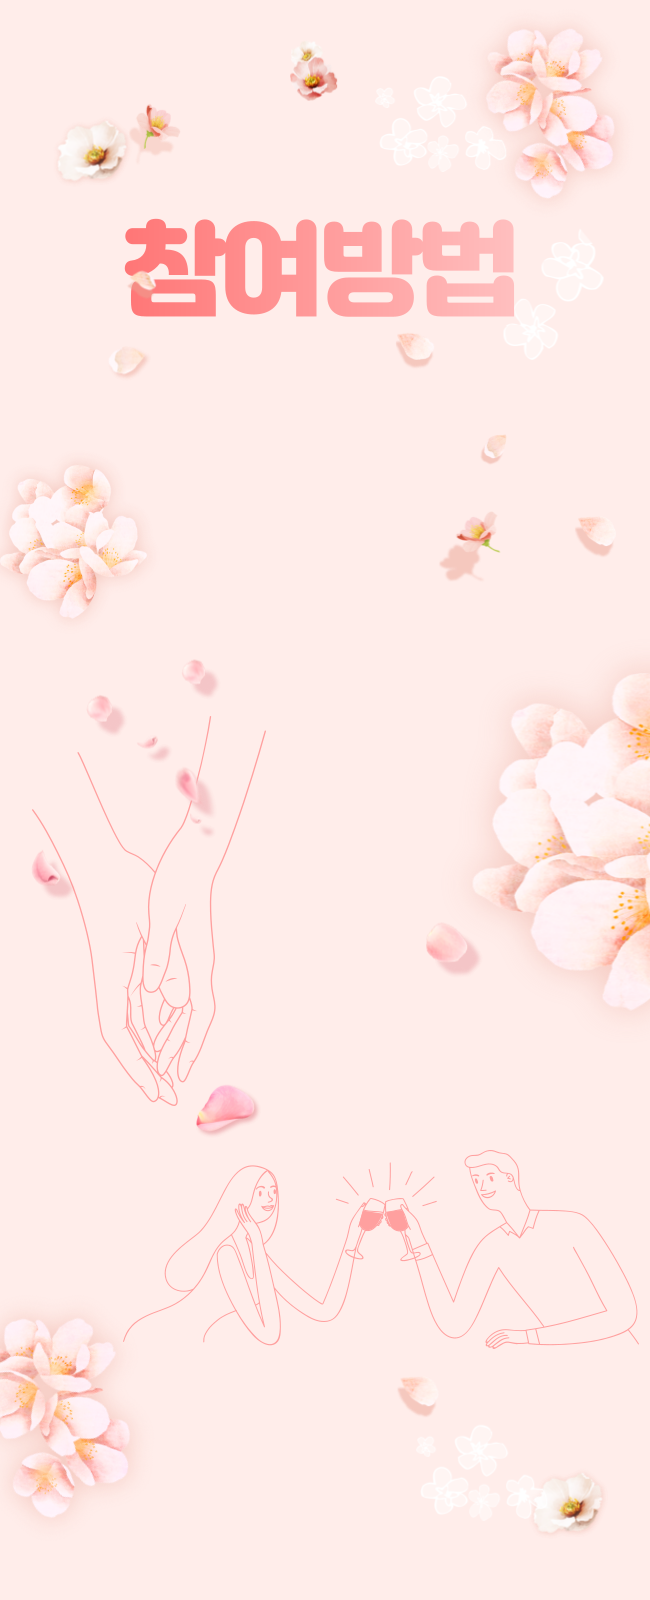
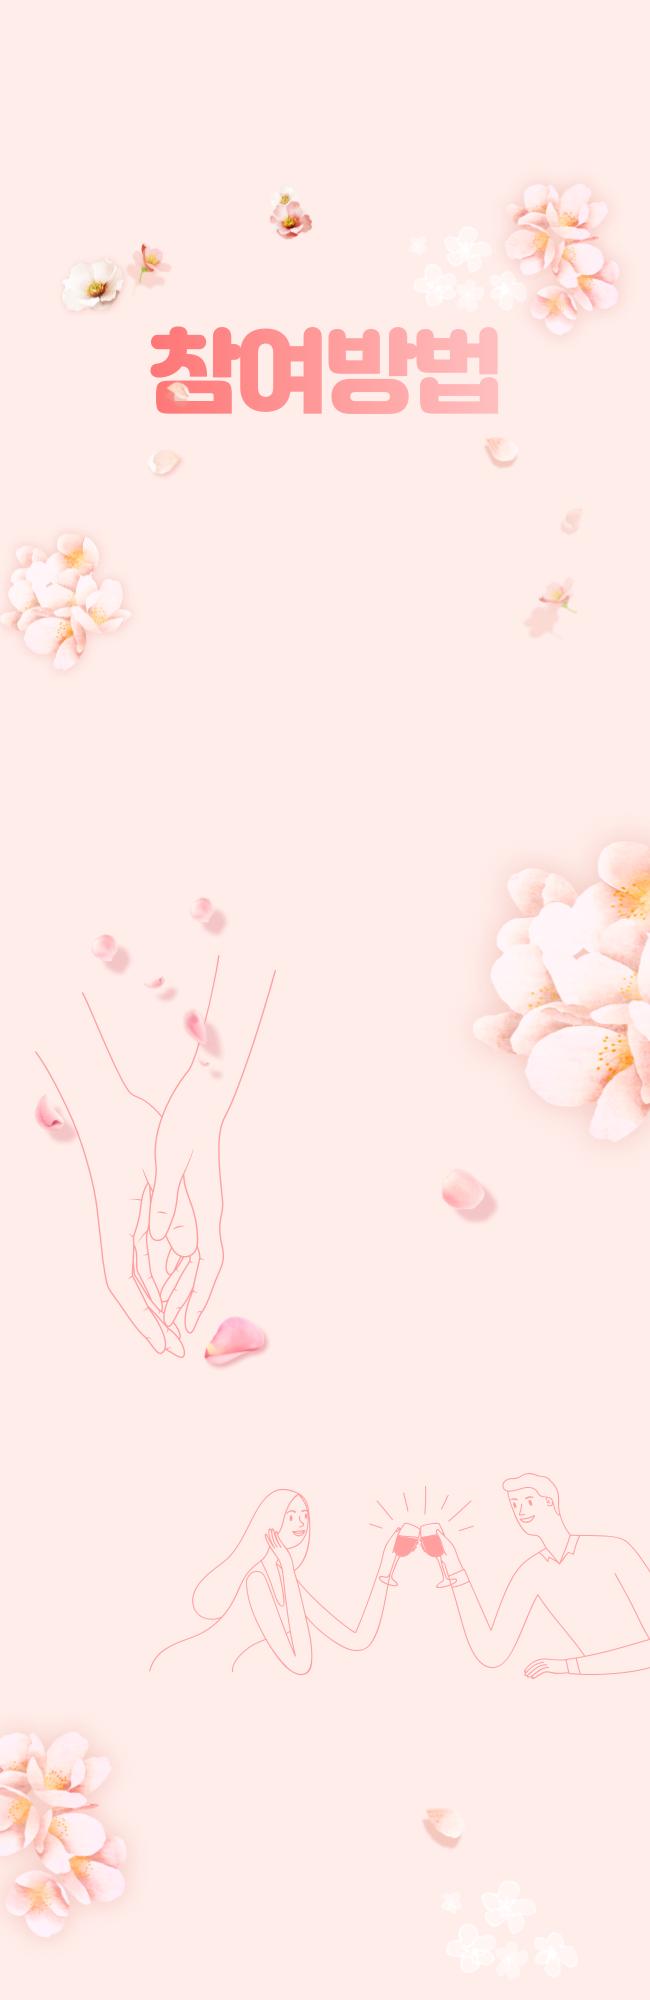
운영자 소개 추가, 신청방법 페이지 배경 변경

diff --git a/pages/operators.tsx b/pages/operators.tsx
@@ -6,156 +6,144 @@ import Link from 'next/link';
 import PortfolioItem from '@components/PortfolioItem';
 
 const Header = tw.div`
-  pt-28
-  px-10
-  pb-4
-  bg-gradient-to-b
-  from-rose-300
   text-center
+  relative
 `;
 
+const TopGradient = tw.div`
+  bg-gradient-to-b
+  from-rose-400
+    pt-52
+    pb-4
+  
+  `;
+
 const TopSmallTitle = tw.div`
-text-rose-500
-  font-medium
-  pb-8
+  pb-3
+  tracking-widest
+  font-light
 `;
 const TopTitle = tw.h1`
 text-[#FF3E53]
-  text-3xl
+  text-md
+  font-semibold
   break-words
+  mt-20
 `;
 const TopSubtitle = tw.h2`
-  pt-7
-  text-red-400
-  font-medium
-  text-lg
+  pt-1
+  text-sm
   pb-7
 `;
 const IntroduceSection = tw.section`
-  pt-10
-  pb-10
-  px-3
-  shadow-2xl
+  pt-5
   flex
   flex-col
   items-center
   justify-center
-  space-y-10
 `;
 
-const IntroduceItem = styled.div`
-  @media (min-width: 1024px) {
-    &:nth-child(2n + 1) {
-      h2 {
-        text-align: right;
-      }
-      p {
-        text-align: right;
-      }
-      div:nth-child(2n + 1) {
-        margin-left: -200px;
-      }
-    }
-    &:nth-child(2n) {
-      h2 {
-        text-align: left;
-      }
-      p {
-        text-align: left;
-      }
-      div:nth-child(2n + 1) {
-        margin-right: -200px;
-      }
-    }
-  }
-`;
+const IntroduceItem = styled.div``;
 const IntroduceImageContainer = tw.div`
 text-center
 -z-50
-span{
   drop-shadow-2xl
-}
-`;
+}`;
 const IntroduceText = tw.div`
-  mt-2
+  mt-8
   sm:bg-white
   p-5
-  xl:p-5
-  sm:mt-0
-  drop-shadow-2xl
 `;
 const IntroduceTitle = tw.h2`
   text-center
   font-bold
-  text-xl
-  pb-2
+  text-2xl
+  text-rose-500
   `;
 const IntroduceDescription = tw.p`
   text-center
-  text-sm
-  font-normal
+  text-xs
+  font-light
+  mt-2
+  mb-2
 `;
 
 const Portfolio: NextPage = () => {
   return (
     <>
       <Header>
-        <TopSmallTitle>솔로 기장 - 간절히 바라면 이루어집니다.</TopSmallTitle>
+        <TopGradient></TopGradient>
+        <TopSmallTitle>간절히 바라면 이루어진다.</TopSmallTitle>
+        <div className='text-5xl'>솔로 기장</div>
+        <div className='absolute top-48 w-full text-center'>
+          <Image
+            alt={'솔로기장 펜글씨'}
+            src='/sologijang_pen.png'
+            width={250}
+            height={250}
+            objectFit={'contain'}
+            className={'mx-auto'}
+          />
+        </div>
         <TopTitle>당신을 보여주세요.</TopTitle>
         <TopSubtitle>
           지금까지 당신을 보여줄 기회가 그리 많이 없었을 겁니다.
           <br />
-          여기서 마음껏 당신을 보여주세요.
+          <span className='font-bold'>여기서 마음껏 당신을 보여주세요.</span>
         </TopSubtitle>
       </Header>
+      <div className='bg-red mx-auto h-44 w-0 border-r-2 border-slate-400'></div>
       <IntroduceSection>
-        <IntroduceItem className='w-full max-w-7xl items-center odd:flex-row-reverse lg:flex lg:space-x-10'>
-          <IntroduceImageContainer>
-            <Image
-              src='/siblings.jpg'
-              alt='남매'
-              width={700}
-              height={450}
-              objectFit='contain'
-            />
-          </IntroduceImageContainer>
+        <IntroduceItem className='w-full max-w-7xl items-center '>
           <IntroduceText>
-            <IntroduceTitle>저희는 남매입니다.</IntroduceTitle>
+            <IntroduceTitle>우리는 남매입니다.</IntroduceTitle>
+            <div className='text-center font-light'>
+              기장에 20년 이상 살아 왔죠.
+            </div>
             <IntroduceDescription>
-              운영자인 저희는 친남매입니다.
+              어릴 땐 자주 싸우긴 했지만 철이 든 지금은
               <br />
-              어릴 땐 자주 싸우긴 했지만 철이 든 지금은 누구보다 호흡이 잘
-              맞습니다.
+              누구보다 호흡이 잘 맞습니다.
               <br />
-              어떤 일을 해도 “남매가 일을 잘한다.”라는 말을 들어왔습니다.
+              어떤 일을 해도
               <br />
-              오빠인 저는 축가, 사회, 행사 진행 등 이벤트를 기획하는
-              전문가입니다.
+              “남매가 일을 잘한다.”라는 말을 들어왔습니다.
               <br />
-              행사 진행을 하면서 감동과 재미를 주는 일을 할 때가 가장 행복하죠.
+              <Image
+                src='/operators.png'
+                width={400}
+                height={300}
+                alt='운영자'
+                objectFit='contain'
+              />
               <br />
-              이제는 여러분들의 인연을 찾는 일에 감동을 드리도록 하겠습니다.
+              오빠인 저는
               <br />
-              믿고 신청해 주세요!
+              축가, 사회, 행사 진행 등 이벤트를 기획하는 전문가입니다.
+              <br />
+              <br />
+              행사 진행을 하면서
+              <br />
+              감동과 재미를 주는 일을 할 때가 가장 행복하죠.
+              <br />
+              <br />
+              이제는 여러분들의 인연을 찾는 일에
+              <br />
+              감동을 드리도록 하겠습니다.
+              <br />
+              <br />
+              <span className='font-bold'>믿고 신청해 주세요!</span>
             </IntroduceDescription>
           </IntroduceText>
         </IntroduceItem>
-        <IntroduceItem className='w-full max-w-7xl items-center odd:flex-row-reverse lg:flex lg:space-x-10'>
-          <IntroduceImageContainer>
-            <Image
-              src='/sea.jpg'
-              alt='기장바다'
-              width={700}
-              height={450}
-              objectFit='contain'
-            />
-          </IntroduceImageContainer>
+        <IntroduceItem className='w-full max-w-7xl items-center'>
           <IntroduceText>
             <IntroduceTitle>왜 기장이죠?</IntroduceTitle>
             <IntroduceDescription>
-              저희 운영자들은 10년 넘게 기장에서 살아왔습니다.
+              저희 운영자들은 20년 넘게 기장에서 살아왔습니다.
               <br />
               데이트하러 온 사람들을 많이 봐왔죠.
+              <br />
               <br />
               기장은 커플이 데이트하러 오기 좋은 장소가 아닙니다.
               <br />
@@ -163,10 +151,10 @@ const Portfolio: NextPage = () => {
             </IntroduceDescription>
           </IntroduceText>
         </IntroduceItem>
-        <IntroduceItem className='w-full max-w-7xl items-center odd:flex-row-reverse lg:flex lg:space-x-10'>
+        <IntroduceItem className='w-full max-w-7xl items-center'>
           <IntroduceImageContainer>
             <Image
-              src='/dothebestlove.jpg'
+              src='/sea.jpg'
               alt='사랑에 최선을'
               width={700}
               height={450}
@@ -175,17 +163,36 @@ const Portfolio: NextPage = () => {
           </IntroduceImageContainer>
           <IntroduceText>
             <IntroduceTitle>신청에 망설여지시나요?</IntroduceTitle>
+            <div className='text-center font-light'>
+              용기 있는 자만, 앞으로 나아갑니다.
+            </div>
             <IntroduceDescription>
-              연인을 찾는다는 강박은 내려두고 편한 마음으로 오시기 바랍니다.
+              연인을 찾는다는 강박은 내려두고
               <br />
-              저희는 커플이 되는 과정을 제공합니다.
+              편한 마음으로 오시기 바랍니다.
               <br />
-              사랑을 찾아가는 과정은 자기 자신을 찾아가는 과정이기도 합니다.
               <br />
-              많은 걸 얻어 가세요.
+              저희는 인연을 찾는 여정을 제공합니다.
+              <br />
+              <br />
+              사랑을 찾아가는 과정은
+              <br />
+              자기 자신을 찾아가는 과정이기도 합니다.
+              <br />
+              <br />
+              <span className=' font-bold'>많은 걸 얻어 가세요.</span>
             </IntroduceDescription>
           </IntroduceText>
         </IntroduceItem>
+        <div className='-mb-10'>
+          <Image
+            src='/operators_bottom.png'
+            width={1200}
+            height={760}
+            alt='사랑찾기'
+            objectFit='contain'
+          />
+        </div>
       </IntroduceSection>
     </>
   );

diff --git a/pages/join.tsx b/pages/join.tsx
@@ -113,7 +113,7 @@ sm:hidden
 `;
 const IntroduceMessage = tw.div`
   text-center
-  pt-[15rem]
+  pt-[80%]
   sm:pt-[30rem]
   text-slate-500
   font-semibold
@@ -187,14 +187,14 @@ const Join: NextPage = () => {
             <MailAddress>yooja.ty@gmail.com</MailAddress>
           </MailAddressContainer>
         </MailGuide>
-        <MessageBox className='ml-10 mt-5'>
+        <MessageBox className='mt-[50%] ml-10'>
           사랑을 이야기하면
           <br />
           사랑을 하게 된다.
           <br />
           <div className='font-brush mt-2'> W.G 베넘</div>
         </MessageBox>
-        <MessageBox className='mt-52 pb-10'>
+        <MessageBox className='mt-[50%] pb-10'>
           우리는 오로지 사랑을 함으로써
           <br />
           사랑을 배울 수 있다.

diff --git a/components/NavBar.tsx b/components/NavBar.tsx
@@ -10,15 +10,11 @@ const TopBarWrapper = styled.div<{ scrollTop: number }>`
   transition:all 0.1s;
   position: fixed;
   @media (min-width: 768px) {
-    .md\:h-28 {
-      height: 7rem /* 112px */;
-    }
+    height: 7rem /* 112px */;
   }
   @media (min-width: 1024px) {
-    .lg\:px-24 {
-      padding-left: 6rem /* 96px */;
-      padding-right: 6rem /* 96px */;
-    }
+    padding-left: 6rem /* 96px */;
+    padding-right: 6rem /* 96px */;
   }
 
   display: flex;
